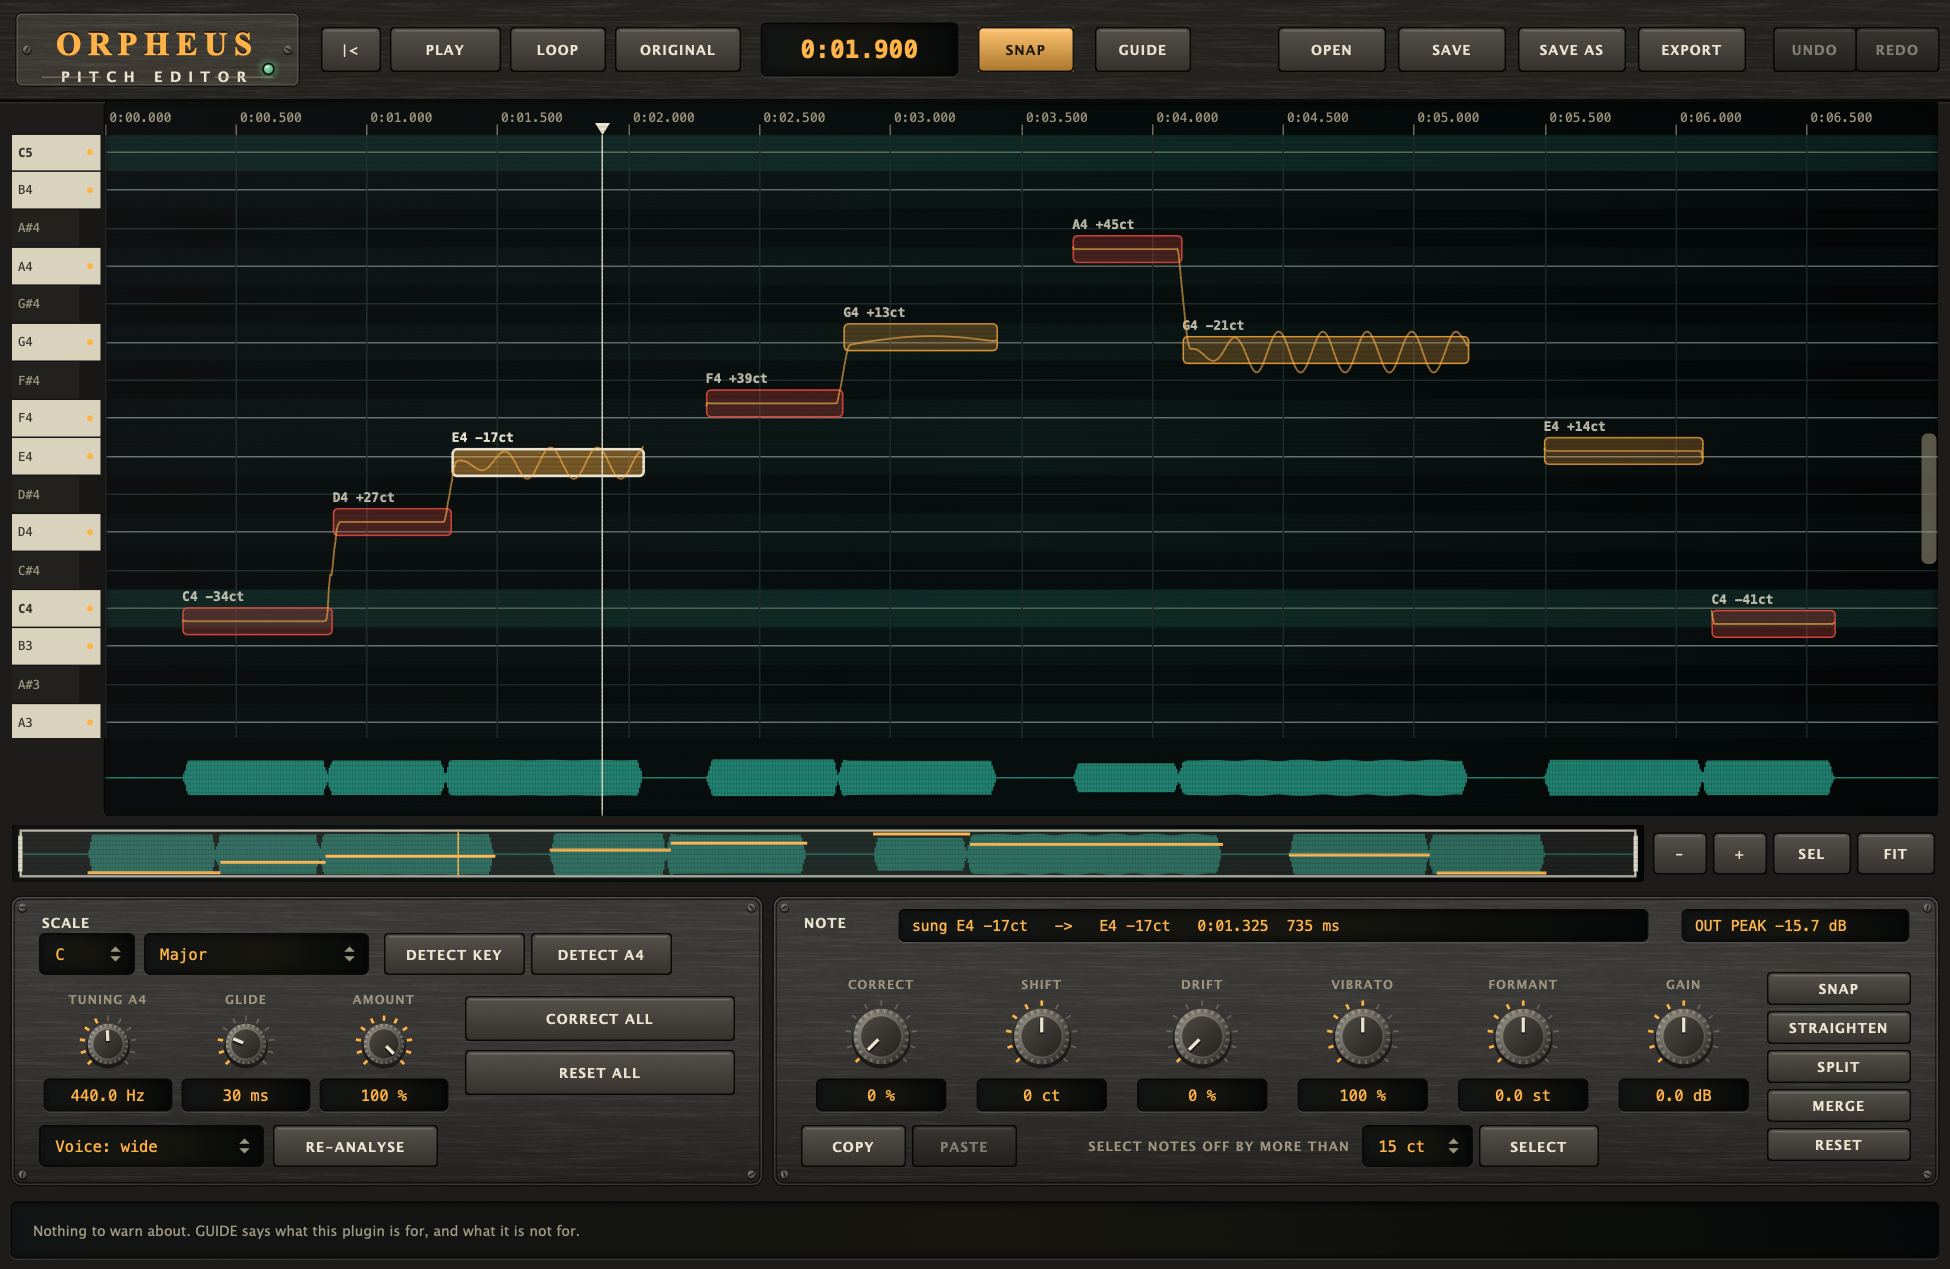
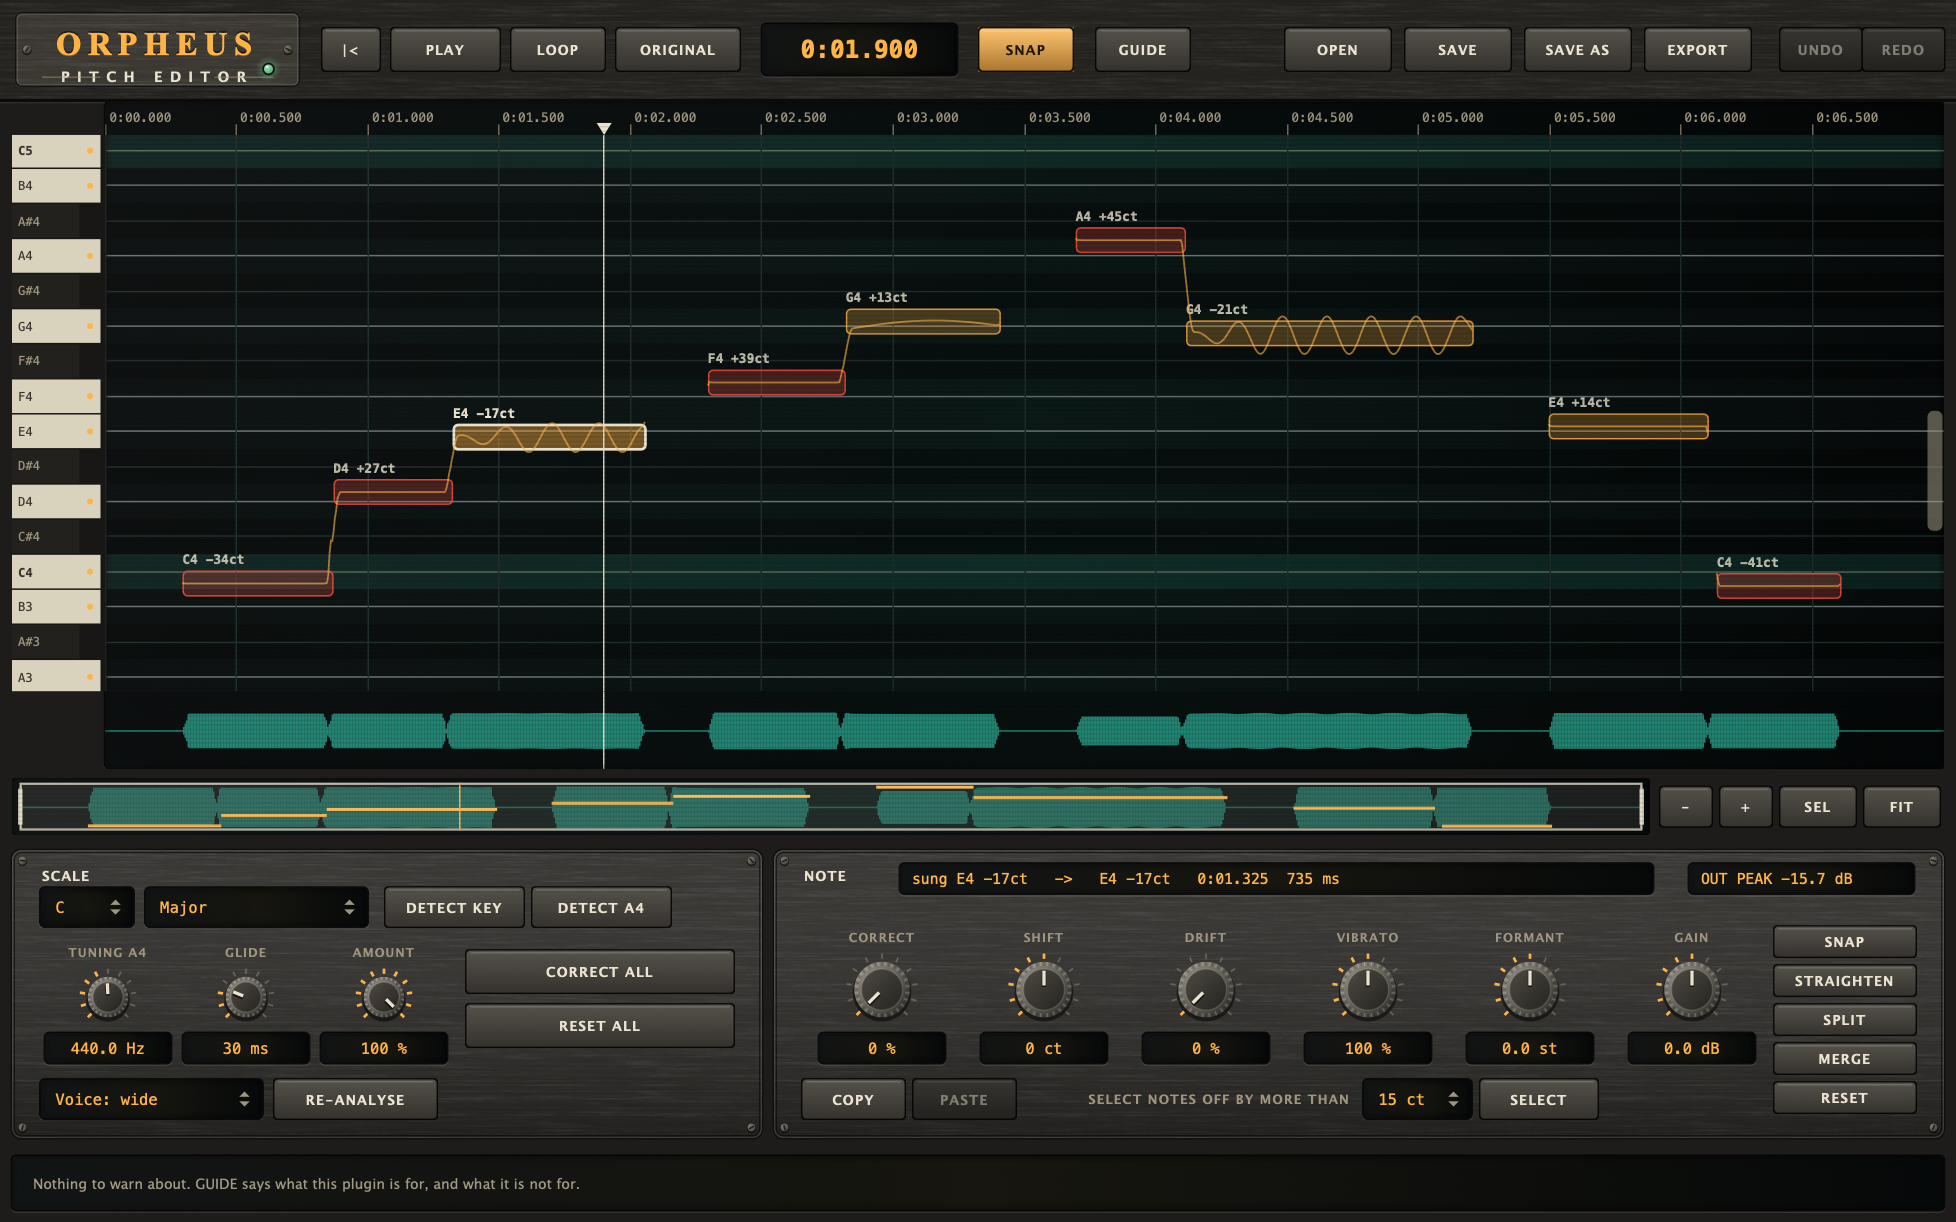
Orpheus: 16:10 window, every edge and corner keeps the shape
The window's design size is 1304 x 815 (kDesignHeight is
ui::editorHeightFor of the width, was 1300 x 796 + strip). The host's
resize limits run from 1024 wide to 4000 wide, every height from
ui::editorHeightFor, and the constrainer keeps 16:10 on every edge and
corner. UiCheck pins the design shape; the two screenshots are
regenerated.

diff --git a/apps/orpheus/Source/UI/MainComponent.h b/apps/orpheus/Source/UI/MainComponent.h
@@ -10,6 +10,7 @@
 #include <optional>
 
 #include <pantheon/ui/Advice.h>
+#include <pantheon/ui/Aspect.h>
 
 namespace orpheus::gui
 {
@@ -18,8 +19,8 @@ namespace orpheus::gui
 class MainComponent : public juce::Component, public juce::FileDragAndDropTarget, private juce::Timer
 {
 public:
-    // The window's design size: the notes strip at the foot is part of it, so the display keeps the height it had.
-    static constexpr int kDesignWidth = 1300, kDesignHeight = 796 + 6 + ui::kNoteStripHeight + 8;
+    // The window's design size, 16:10 like every plugin's (ui::kEditorAspect): the notes strip at the foot is part of it, and the pitch display takes what the rest leaves.
+    static constexpr int kDesignWidth = 1304, kDesignHeight = ui::editorHeightFor (kDesignWidth);
 
     explicit MainComponent (bool withAudioDevice = true);
     ~MainComponent() override;

diff --git a/apps/orpheus/Source/Main.cpp b/apps/orpheus/Source/Main.cpp
@@ -3,6 +3,8 @@
 
 #include "UI/MainComponent.h"
 
+#include <pantheon/ui/Aspect.h>
+
 namespace
 {
 class MainWindow : public juce::DocumentWindow
@@ -15,7 +17,8 @@ public:
         setContentOwned (content, true);
         content->onTitleChanged = [this] { setName (content->windowTitle()); };
         setResizable (true, true);
-        setResizeLimits (1020, 620, 4000, 3000);
+        setResizeLimits (1024, ui::editorHeightFor (1024), 4000, ui::editorHeightFor (4000)); // every edge and corner of the window; the shape stays 16:10 (the native frame is left out of it)
+        getConstrainer()->setFixedAspectRatio (ui::kEditorAspect);
         centreWithSize (getWidth(), getHeight());
         setVisible (true);
     }

diff --git a/apps/orpheus/Tests/UiCheck.cpp b/apps/orpheus/Tests/UiCheck.cpp
@@ -109,6 +109,7 @@ int main()
 {
     juce::ScopedJuceInitialiser_GUI gui;
     std::printf ("Orpheus UI check\n");
+    test::check (ui::hasEditorAspect (MainComponent::kDesignWidth, MainComponent::kDesignHeight), "the window is drawn at 16:10, the shape of every plugin");
 
     // ---- [1] the session ----------------------------------------------------------------------------------------------
     std::printf ("\n[1] session\n");
